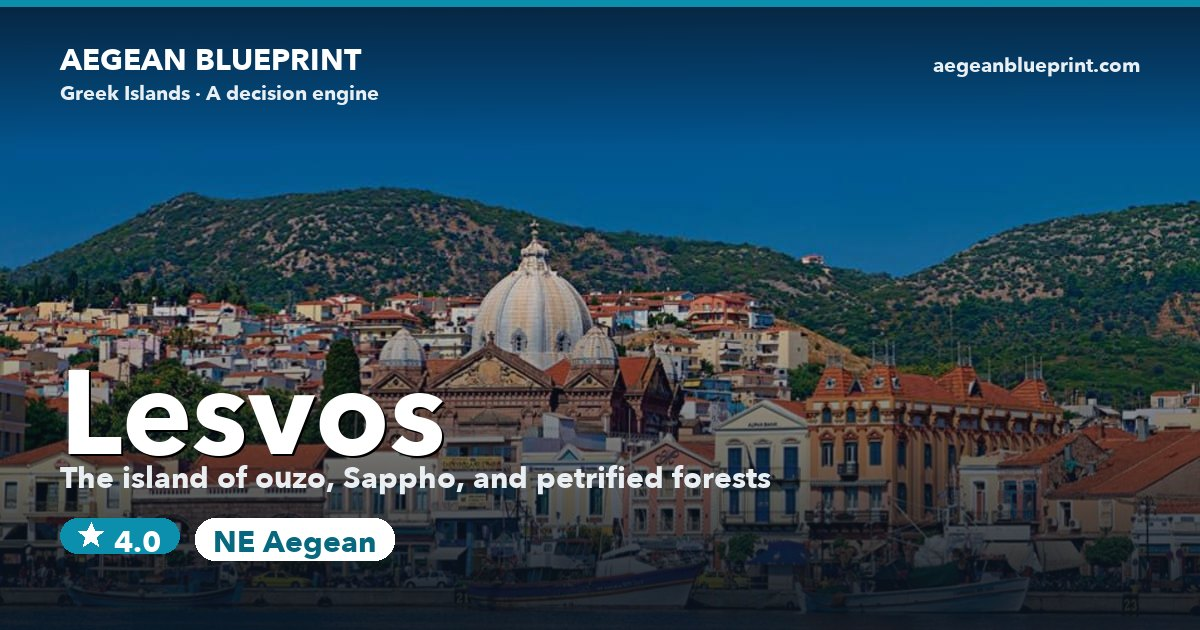
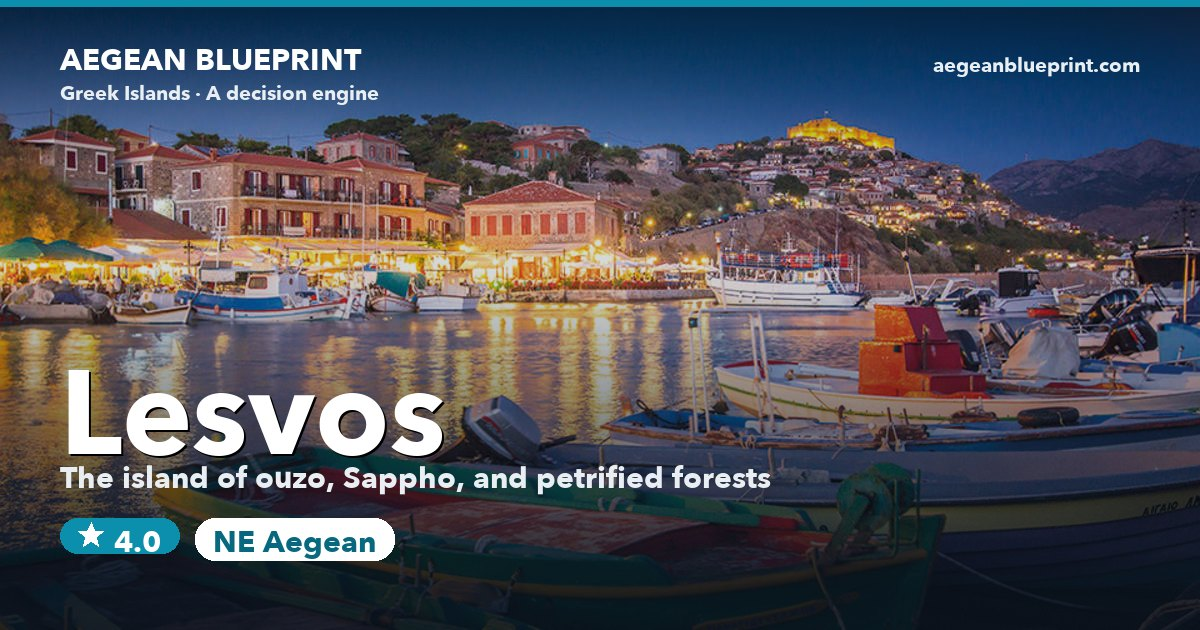
Cloudinary hero photos for 8 NE-Aegean islands + Compare/Match Me photos

diff --git a/script.js b/script.js
@@ -1559,10 +1559,13 @@ function buildIslandPage(data, key) {
 
   // Characteristic hero photo: first available itinerary-stop photo, else first beach photo.
   // Mirrors find_hero_image() in prerender.py so the SPA matches the static SEO page.
-  let _hp = null, _hc = null, _hn = '';
-  for (const _d of itin.days) {
-    for (const _s of (_d.stops || [])) { if (_s.photo) { _hp = _s.photo; _hc = _s.photo_credit; _hn = pickLang(_s, 'name'); break; } }
-    if (_hp) break;
+  // A top-level `hero_photo` on the island JSON overrides the auto-pick.
+  let _hp = data.hero_photo || null, _hc = null, _hn = '';
+  if (!_hp) {
+    for (const _d of itin.days) {
+      for (const _s of (_d.stops || [])) { if (_s.photo) { _hp = _s.photo; _hc = _s.photo_credit; _hn = pickLang(_s, 'name'); break; } }
+      if (_hp) break;
+    }
   }
   if (!_hp && Array.isArray(data.beaches)) {
     for (const _b of data.beaches) { if (_b.photo) { _hp = _b.photo; _hc = _b.photo_credit; _hn = pickLang(_b, 'name'); break; } }
@@ -3246,16 +3249,22 @@ function renderCompareCards(iA, iB) {
     const airportRow = island.has_airport ? `<div class="cmp-info-row"><span class="cmp-info-label">✈ ${t('tooltip.hasairport')}</span><span class="cmp-info-val">${t('common.yes')}</span></div>` : '';
     const daysRow = island.days ? `<div class="cmp-info-row"><span class="cmp-info-label">⏱ ${t('tooltip.suggesteddays')}</span><span class="cmp-info-val">${island.days} ${t('common.days')}</span></div>` : '';
 
+    const nm = islandName(island.key);
+    const hero = HERO_PHOTOS[island.key] || {};
+    const media = `<div class="cmp-media${hero.url ? '' : ' cmp-nophoto'}" data-initial="${nm.charAt(0)}">${hero.url ? `<img class="cmp-photo" src="${thumbUrl(hero.url)}" alt="${nm}" loading="lazy" onerror="this.closest('.cmp-media').classList.add('cmp-nophoto')">` : ''}</div>`;
     return `<div class="compare-card">
-      <div class="compare-card-head">
-        <h2>${islandName(island.key)}</h2>
-        <div class="compare-total" style="color:${scoreToColor(island.total)}">${fmt(island.total)}<span>/5</span></div>
-      </div>
-      <div class="compare-meta">${groupName(island.island_group)} · ${fmtNum(island.area)} km² · ${t('compare.pop')}. ${fmtNum(island.pop)}</div>
-      <div class="cmp-info-panel">
-        <div class="cmp-info-row"><span class="cmp-info-label">🚗 ${t('dim.car')}</span><span class="cmp-info-val"><strong>${carLabel}</strong></span></div>
-        ${airportRow}
-        ${daysRow}
+      ${media}
+      <div class="cmp-body">
+        <div class="compare-card-head">
+          <h2>${nm}</h2>
+          <div class="compare-total" style="color:${scoreToColor(island.total)}">${fmt(island.total)}<span>/5</span></div>
+        </div>
+        <div class="compare-meta">${groupName(island.island_group)} · ${fmtNum(island.area)} km² · ${t('compare.pop')}. ${fmtNum(island.pop)}</div>
+        <div class="cmp-info-panel">
+          <div class="cmp-info-row"><span class="cmp-info-label">🚗 ${t('dim.car')}</span><span class="cmp-info-val"><strong>${carLabel}</strong></span></div>
+          ${airportRow}
+          ${daysRow}
+        </div>
       </div>
     </div>`;
   };
@@ -5183,7 +5192,12 @@ function computeQuizResults() {
     if (!reasons.length) reasons.push(`${t('quiz.why.overall')} ${fmt(island.total)}`);
     return reasons.slice(0, 2).join(' · ');
   };
-  results.innerHTML = `<div class="quiz-results-header"><div class="quiz-results-title">${t('match.results.title')}</div><div class="quiz-results-sub">${t('match.results.sub')}</div></div>${scored.map((island, idx) => `<div class="result-island-card" data-key="${island.key}"><div class="result-rank">${idx + 1}</div><div class="result-info"><div class="result-name">${islandName(island.key)}</div><div class="result-why">${whyText(island)}</div></div><div class="result-score" style="color:${scoreToColor(island.total)}">${fmt(island.total)}</div></div>`).join('')}<div class="quiz-retake-row"><button class="quiz-retake-btn">${t('match.retake')}</button></div>`;
+  results.innerHTML = `<div class="quiz-results-header"><div class="quiz-results-title">${t('match.results.title')}</div><div class="quiz-results-sub">${t('match.results.sub')}</div></div>${scored.map((island, idx) => {
+    const nm = islandName(island.key);
+    const hero = HERO_PHOTOS[island.key] || {};
+    const thumb = `<div class="result-thumb${hero.url ? '' : ' result-nophoto'}" data-initial="${nm.charAt(0)}">${hero.url ? `<img src="${thumbUrl(hero.url)}" alt="${nm}" loading="lazy" onerror="this.closest('.result-thumb').classList.add('result-nophoto')">` : ''}<span class="result-rank">${idx + 1}</span></div>`;
+    return `<div class="result-island-card" data-key="${island.key}">${thumb}<div class="result-info"><div class="result-name">${nm}</div><div class="result-why">${whyText(island)}</div></div><div class="result-score" style="color:${scoreToColor(island.total)}">${fmt(island.total)}</div></div>`;
+  }).join('')}<div class="quiz-retake-row"><button class="quiz-retake-btn">${t('match.retake')}</button></div>`;
   results.querySelectorAll('.result-island-card').forEach(card => { card.addEventListener('click', () => navigateTo('island', card.dataset.key)); });
   results.querySelector('.quiz-retake-btn').addEventListener('click', () => { quizAnswers = {}; quizStep = 0; renderQuizStep(); });
 }

diff --git a/el/island/lemnos/index.html b/el/island/lemnos/index.html
@@ -323,7 +323,7 @@
     <p class="seo-rating">Συνολική βαθμολογία: <strong>3.7/5</strong> · 476 km² · 16900 κάτοικοι</p>
     <p class="seo-lastupdated"><time datetime="2026-07-01">Τελευταία ενημέρωση: <strong>1 Ιουλίου 2026</strong></time></p>
   </div>
-  <figure class="seo-hero"><img src="https://upload.wikimedia.org/wikipedia/commons/thumb/e/ea/Wharf_in_Myrina%2C_Lemnos%2C_Greece.jpg/1920px-Wharf_in_Myrina%2C_Lemnos%2C_Greece.jpg" alt="Λήμνος — Myrina (Capital)" loading="lazy" width="800" height="500" style="width:100%;height:auto;border-radius:8px"></figure>
+  <figure class="seo-hero"><img src="https://res.cloudinary.com/dothbs5hs/image/upload/v1783272505/%CE%BB%CE%B7%CE%BC%CE%BD%CE%BF%CF%82_xht7g6.jpg" alt="Λήμνος, ελληνικό νησί" loading="lazy" width="800" height="500" style="width:100%;height:auto;border-radius:8px"></figure>
   <section class="seo-intro">
     <p>Η Λήμνος είναι το 8ο μεγαλύτερο νησί της Ελλάδας και το πιο ήσυχο 8ο μεγαλύτερο με διαφορά — 477 τ.χλμ. ηφαιστειακών πεδίων, αμμοθίνων, αλυκών και πάνω από 30 αμμώδεις παραλίες, με περίπου 17.000 μόνιμους κατοίκους. Στην ελληνική μυθολογία εδώ έριξε ο Δίας τον Ήφαιστο όταν εκδιώχθηκε από τον Όλυμπο, και ο θεός της μεταλλουργίας λέγεται ότι έστησε εδώ το αμόνι του. Η Πολιόχνη στην ανατολική ακτή είναι ένας από τους αρχαιότερους οικισμούς της Ευρώπης (4000 π.Χ., παλαιότερος από την Τροία) και το Βουλευτήριό της μπορεί να είναι το αρχαιότερο γνωστό κτίριο συνέλευσης οπουδήποτε. Η πρωτεύουσα Μύρινα βρίσκεται κάτω από ένα τεράστιο βυζαντινό κάστρο όπου περιφέρονται ελεύθερα ελάφια. Οι βορειοανατολικές παραλίες στον Κέρο είναι παγκόσμια πρωτεύουσα windsurfing. Τρεις μέρες σου επιτρέπουν να δεις τα κύρια χωρίς βιασύνη· αεροδρόμιο ανατολικά της Μύρινας κάνει το νησί ασυνήθιστα προσβάσιμο για κάπου τόσο μακριά βόρεια.</p>
   </section>

diff --git a/style.css b/style.css
@@ -802,10 +802,21 @@ html.dark .compare-faq details p { color: #ddd; }
   background: var(--white);
   border: 1px solid var(--border);
   border-radius: var(--radius-lg);
-  padding: 20px; position: relative;
+  overflow: hidden; position: relative;
   box-shadow: var(--shadow-sm);
 }
 .compare-card.compare-winner { border: 2px solid var(--aegean-mid); }
+/* Photo banner at the top of each compare card */
+.cmp-media { position: relative; aspect-ratio: 16 / 9; background: var(--aegean-pale); overflow: hidden; }
+.cmp-photo { width: 100%; height: 100%; object-fit: cover; display: block; }
+.cmp-media.cmp-nophoto .cmp-photo { display: none; }
+.cmp-media.cmp-nophoto::after {
+  content: attr(data-initial); position: absolute; inset: 0;
+  display: flex; align-items: center; justify-content: center;
+  font-family: var(--font-display); font-size: 40px; font-weight: 700;
+  color: var(--aegean); opacity: 0.5;
+}
+.cmp-body { padding: 18px 20px 20px; }
 /* Card header: name on the left, overall score on the right, baseline-aligned
    so the score sits on the same visual line as the name rather than below it. */
 .compare-card-head {
@@ -1166,10 +1177,27 @@ html.dark .planner-disclaimer { background: rgba(11, 143, 172, 0.10); }
   box-shadow: var(--shadow);
   transform: translateY(-2px);
 }
+/* Photo thumbnail with the rank badge overlaid (Match Me results) */
+.result-thumb {
+  position: relative; flex-shrink: 0;
+  width: 76px; height: 76px; border-radius: 12px; overflow: hidden;
+  background: var(--aegean-pale);
+}
+.result-thumb img { width: 100%; height: 100%; object-fit: cover; display: block; }
+.result-thumb.result-nophoto img { display: none; }
+.result-thumb.result-nophoto::after {
+  content: attr(data-initial); position: absolute; inset: 0;
+  display: flex; align-items: center; justify-content: center;
+  font-family: var(--font-display); font-size: 30px; font-weight: 700;
+  color: var(--aegean); opacity: 0.55;
+}
 .result-rank {
-  font-family: var(--serif);
-  font-size: var(--text-section); font-weight: 600;
-  color: var(--aegean); width: 32px; flex-shrink: 0;
+  position: absolute; top: 5px; left: 5px;
+  width: 22px; height: 22px; border-radius: 50%;
+  background: var(--aegean-dark); color: #fff;
+  display: flex; align-items: center; justify-content: center;
+  font-weight: 800; font-size: var(--text-tiny);
+  box-shadow: 0 1px 4px rgba(0,0,0,0.35);
 }
 .result-info { flex: 1; }
 .result-name {

diff --git a/el/island/ammouliani/index.html b/el/island/ammouliani/index.html
@@ -323,7 +323,7 @@
     <p class="seo-rating">Συνολική βαθμολογία: <strong>3.5/5</strong> · 4 km² · 547 κάτοικοι</p>
     <p class="seo-lastupdated"><time datetime="2026-07-01">Τελευταία ενημέρωση: <strong>1 Ιουλίου 2026</strong></time></p>
   </div>
-  <figure class="seo-hero"><img src="https://upload.wikimedia.org/wikipedia/commons/thumb/8/85/Ammouliani_Island.jpg/1920px-Ammouliani_Island.jpg" alt="Αμμουλιανή — Ammouliani Port" loading="lazy" width="800" height="500" style="width:100%;height:auto;border-radius:8px"></figure>
+  <figure class="seo-hero"><img src="https://res.cloudinary.com/dothbs5hs/image/upload/v1783272506/ammouliani_jh9w8s.jpg" alt="Αμμουλιανή, ελληνικό νησί" loading="lazy" width="800" height="500" style="width:100%;height:auto;border-radius:8px"></figure>
   <section class="seo-intro">
     <p>Η Αμμουλιανή είναι ένα νησί 4,5 τ.χλμ. στον κόλπο του Άθω ανάμεσα στις χερσονήσους Σιθωνίας και Άθω της Χαλκιδικής — το μοναδικό κατοικημένο νησί της Κεντρικής Μακεδονίας. Μέχρι το 1925 ανήκε στη Μονή Βατοπεδίου του Αγίου Όρους και καλλιεργούνταν από μοναχούς. Μετά τη Μικρασιατική καταστροφή, το νησί παραχωρήθηκε σε πρόσφυγες από τη Θάλασσα του Μαρμαρά, που έφεραν μαζί τους την αλιευτική γνώση και την κουζίνα τους. Οι 600 μόνιμοι κάτοικοι ζουν σε ένα χωριό γύρω από το λιμάνι. Τα νερά είναι διαυγή, η άμμος χρυσή, και το Άγιο Όρος υψώνεται ακριβώς απέναντι από το κανάλι — η θέα στο ηλιοβασίλεμα δεν συγκρίνεται με τίποτα στην Ελλάδα. Σε συνδυασμό με τα νησάκια Δρένια ακριβώς απέναντι από τη νοτιοανατολική ακτή, δύο μέρες εδώ αρκούν.</p>
   </section>

diff --git a/el/island/agios-efstratios/index.html b/el/island/agios-efstratios/index.html
@@ -323,7 +323,7 @@
     <p class="seo-rating">Συνολική βαθμολογία: <strong>3.3/5</strong> · 43 km² · 270 κάτοικοι</p>
     <p class="seo-lastupdated"><time datetime="2026-07-01">Τελευταία ενημέρωση: <strong>1 Ιουλίου 2026</strong></time></p>
   </div>
-  <figure class="seo-hero"><img src="https://upload.wikimedia.org/wikipedia/commons/thumb/d/da/Agios_Efstratios_banner.jpg/1920px-Agios_Efstratios_banner.jpg" alt="Άγιος Ευστράτιος — Harbour &amp; Village" loading="lazy" width="800" height="500" style="width:100%;height:auto;border-radius:8px"></figure>
+  <figure class="seo-hero"><img src="https://res.cloudinary.com/dothbs5hs/image/upload/v1783272506/agios_efstratios_b2y5au.jpg" alt="Άγιος Ευστράτιος, ελληνικό νησί" loading="lazy" width="800" height="500" style="width:100%;height:auto;border-radius:8px"></figure>
   <section class="seo-intro">
     <p>Ο Άγιος Ευστράτιος είναι το πιο απομονωμένο κατοικημένο νησί του Αιγαίου — 270 άνθρωποι, χωρίς αυτοκίνητα, χωρίς ασφαλτόδρομους, προστατευμένο από το δίκτυο Natura 2000. Ηφαιστειακό νησί με παραλίες μαύρης άμμου, ένα από τα μεγαλύτερα δάση βελανιδιάς στο Αιγαίο, και θαλάσσιες σπηλιές όπου αναπαράγονται μεσογειακές φώκιες. Διάσημο στην ελληνική ιστορία ως τόπος εξορίας — ο συνθέτης Μίκης Θεοδωράκης και ο ποιητής Γιάννης Ρίτσος κρατήθηκαν εδώ τη δεκαετία του 1970. Το Μουσείο της Δημοκρατίας στο παλιό σχολείο διηγείται αυτή την ιστορία. Το νησί στοχεύει να γίνει το πρώτο ελληνικό νησί μηδενικών εκπομπών. Αν έχεις πάει στις Κυκλάδες πέντε φορές και θες κάτι εντελώς διαφορετικό, αυτό είναι.</p>
   </section>

diff --git a/el/island/psara/index.html b/el/island/psara/index.html
@@ -323,7 +323,7 @@
     <p class="seo-rating">Συνολική βαθμολογία: <strong>3.0/5</strong> · 40 km² · 450 κάτοικοι</p>
     <p class="seo-lastupdated"><time datetime="2026-07-01">Τελευταία ενημέρωση: <strong>1 Ιουλίου 2026</strong></time></p>
   </div>
-  <figure class="seo-hero"><img src="https://upload.wikimedia.org/wikipedia/commons/8/80/Psara-Black-Ridge-01.jpg" alt="Ψαρά — Harbour Arrival" loading="lazy" width="800" height="500" style="width:100%;height:auto;border-radius:8px"></figure>
+  <figure class="seo-hero"><img src="https://res.cloudinary.com/dothbs5hs/image/upload/v1783272505/psarra_soqnkb.jpg" alt="Ψαρά, ελληνικό νησί" loading="lazy" width="800" height="500" style="width:100%;height:auto;border-radius:8px"></figure>
   <section class="seo-intro">
     <p>Τα Ψαρά είναι ένα από τα πιο ιερά σημεία στη σύγχρονη ελληνική ιστορία. Κατά την Ελληνική Επανάσταση (1821-1829), το μικροσκοπικό νησί συνεισέφερε στόλο που ήταν καθοριστικός σε αρκετές μεγάλες ελληνικές νίκες. Τον Ιούνιο του 1824, ο οθωμανικός στόλος επιτέθηκε στα Ψαρά. Αντί να παραδοθούν, οι τοπικοί υπερασπιστές στην κορυφή άναψαν την πυριτιδαποθήκη — ολόκληρη η φρουρά και οι οικογένειές τους σκοτώθηκαν στην έκρηξη. Από τους 30.000 Ψαριανούς πριν την επανάσταση, επέζησαν μόνο λίγες εκατοντάδες. Ο ποιητής Διονύσιος Σολωμός έγραψε το διάσημο επίγραμμα: «Στων Ψαρών την ολόμαυρη ράχη, περπατώντας η Δόξα μονάχη». Σήμερα τα Ψαρά είναι ένα ήσυχο ψαρονήσι με 450 κατοίκους, μαύρες βότσαλες παραλίες, πολύ λίγους τουρίστες, και αισθητό βάρος ιστορίας.</p>
   </section>

diff --git a/el/island/samothrace/index.html b/el/island/samothrace/index.html
@@ -323,7 +323,7 @@
     <p class="seo-rating">Συνολική βαθμολογία: <strong>3.2/5</strong> · 178 km² · 2859 κάτοικοι</p>
     <p class="seo-lastupdated"><time datetime="2026-07-04">Τελευταία ενημέρωση: <strong>4 Ιουλίου 2026</strong></time></p>
   </div>
-  <figure class="seo-hero"><img src="https://upload.wikimedia.org/wikipedia/commons/b/b5/Kamariotissa%2C_Samotraki%2C_Greece.jpg" alt="Σαμοθράκη — Kamariotissa (port)" loading="lazy" width="800" height="500" style="width:100%;height:auto;border-radius:8px"></figure>
+  <figure class="seo-hero"><img src="https://res.cloudinary.com/dothbs5hs/image/upload/v1783272505/samothraki_lggl9b.jpg" alt="Σαμοθράκη, ελληνικό νησί" loading="lazy" width="800" height="500" style="width:100%;height:auto;border-radius:8px"></figure>
   <section class="seo-intro">
     <p>Η Σαμοθράκη είναι ένα νησί με καταρράκτες, άγριες ορεινές πισίνες και αρχαίο μυστήριο. Το Όρος Σάος υψώνεται κατευθείαν από τη θάλασσα στα 1.611 μέτρα, η ψηλότερη κορυφή κάθε αιγαιοπελαγίτικου νησιού. Το Ιερό των Μεγάλων Θεών ήταν η σημαντικότερη μυστική θρησκευτική λατρεία της αρχαιότητας, στην οποία συμμετείχαν όλοι από τον Ηρόδοτο μέχρι τον Φίλιππο Β&#x27; της Μακεδονίας. Η Νίκη της Σαμοθράκης (τώρα στο Λούβρο) βρέθηκε εδώ. Σήμερα το νησί παραμένει πεισματικά μη τουριστικό — χωρίς αεροδρόμιο, ισχυροί άνεμοι, βουνοπλαγιές με κατσίκες.</p>
   </section>

diff --git a/el/island/thasos/index.html b/el/island/thasos/index.html
@@ -323,7 +323,7 @@
     <p class="seo-rating">Συνολική βαθμολογία: <strong>3.7/5</strong> · 379 km² · 13700 κάτοικοι</p>
     <p class="seo-lastupdated"><time datetime="2026-07-01">Τελευταία ενημέρωση: <strong>1 Ιουλίου 2026</strong></time></p>
   </div>
-  <figure class="seo-hero"><img src="https://upload.wikimedia.org/wikipedia/commons/thumb/c/cc/Ancient_Theater_%28Thasos%29.jpg/1920px-Ancient_Theater_%28Thasos%29.jpg" alt="Θάσος — Ancient Theatre of Thasos" loading="lazy" width="800" height="500" style="width:100%;height:auto;border-radius:8px"></figure>
+  <figure class="seo-hero"><img src="https://res.cloudinary.com/dothbs5hs/image/upload/v1783272506/thassos_mlytko.jpg" alt="Θάσος, ελληνικό νησί" loading="lazy" width="800" height="500" style="width:100%;height:auto;border-radius:8px"></figure>
   <section class="seo-intro">
     <p>Η Θάσος είναι το βορειότερο ελληνικό νησί — πιο κοντά στη Βουλγαρία παρά στην Αθήνα — και δεν μοιάζει καθόλου με τις Κυκλάδες. Πυκνά πευκοδάση και πλατανόδασα καλύπτουν τα βουνά, ποτάμια τροφοδοτούν μαρμαρικά λατομεία, και η ανατολική ακτή έχει μακριές λευκές αμμώδεις παραλίες. Στην αρχαιότητα, η Θάσος ήταν διάσημα πλούσια από τον χρυσό και το μάρμαρό της· σήμερα το μάρμαρο ακόμα εξάγεται, και η αρχαία Αγορά στην κύρια πόλη είναι από τις πιο πλήρεις της Ελλάδας.</p>
   </section>

diff --git a/el/island/chios/index.html b/el/island/chios/index.html
@@ -323,7 +323,7 @@
     <p class="seo-rating">Συνολική βαθμολογία: <strong>3.6/5</strong> · 842 km² · 51000 κάτοικοι</p>
     <p class="seo-lastupdated"><time datetime="2026-07-01">Τελευταία ενημέρωση: <strong>1 Ιουλίου 2026</strong></time></p>
   </div>
-  <figure class="seo-hero"><img src="https://upload.wikimedia.org/wikipedia/commons/thumb/e/e7/Chios_-_View_of_Chios_%284%29.jpg/1920px-Chios_-_View_of_Chios_%284%29.jpg" alt="Χίος — Chios Town" loading="lazy" width="800" height="500" style="width:100%;height:auto;border-radius:8px"></figure>
+  <figure class="seo-hero"><img src="https://res.cloudinary.com/dothbs5hs/image/upload/v1783272505/%CF%87%CE%B9%CE%BF%CF%82_cnscsn.jpg" alt="Χίος, ελληνικό νησί" loading="lazy" width="800" height="500" style="width:100%;height:auto;border-radius:8px"></figure>
   <section class="seo-intro">
     <p>Η Χίος παράγει κάτι που δεν υπάρχει πουθενά αλλού στη Γη — ρητίνη μαστίχας από το δέντρο της σχίνου, που χρησιμοποιείται 3000 χρόνια ως τσίχλα, φάρμακο και βερνίκι. Τα μεσαιωνικά μαστιχοχώρια του νότου είναι από τους πιο αρχιτεκτονικά εξαιρετικούς οικισμούς της Ελλάδας — χτισμένοι από τους Γενουάτες τον 14ο αιώνα με μοναδικό γεωμετρικό αμυντικό σχεδιασμό. Το νησί είναι πραγματικά μακριά από τον πολυσύχναστο τουρισμό παρά το μέγεθός του.</p>
   </section>

diff --git a/island/lemnos/index.html b/island/lemnos/index.html
@@ -323,7 +323,7 @@
     <p class="seo-rating">Overall rating: <strong>3.7/5</strong> · 476 km² · 16900 residents</p>
     <p class="seo-lastupdated"><time datetime="2026-07-01">Last updated: <strong>July 1, 2026</strong></time></p>
   </div>
-  <figure class="seo-hero"><img src="https://upload.wikimedia.org/wikipedia/commons/thumb/e/ea/Wharf_in_Myrina%2C_Lemnos%2C_Greece.jpg/1920px-Wharf_in_Myrina%2C_Lemnos%2C_Greece.jpg" alt="Lemnos — Myrina (Capital)" loading="lazy" width="800" height="500" style="width:100%;height:auto;border-radius:8px"></figure>
+  <figure class="seo-hero"><img src="https://res.cloudinary.com/dothbs5hs/image/upload/v1783272505/%CE%BB%CE%B7%CE%BC%CE%BD%CE%BF%CF%82_xht7g6.jpg" alt="Lemnos, Greek island" loading="lazy" width="800" height="500" style="width:100%;height:auto;border-radius:8px"></figure>
   <section class="seo-intro">
     <p>Lemnos is Greece&#x27;s 8th-largest island and its quietest 8th-largest by a long margin — 477 km² of volcanic plains, sand dunes, salt flats and more than 30 sandy beaches, with about 17,000 year-round residents. In Greek mythology this is where Zeus threw Hephaestus when he was cast out of Olympus, and the god of metalwork supposedly set up his forge here. Poliochni on the east coast is one of the oldest settlements in Europe (4000 BC, predating Troy) and its &#x27;Bouleuterion&#x27; may be the oldest known assembly building anywhere. The capital Myrina sits beneath an enormous Byzantine castle where deer roam free. The northeastern beaches at Keros are a windsurfing capital. Three days lets you see the highlights without rushing; an airport east of Myrina makes the island unusually accessible for somewhere this far north.</p>
   </section>

diff --git a/el/island/lesvos/index.html b/el/island/lesvos/index.html
@@ -323,7 +323,7 @@
     <p class="seo-rating">Συνολική βαθμολογία: <strong>4.0/5</strong> · 1633 km² · 83000 κάτοικοι</p>
     <p class="seo-lastupdated"><time datetime="2026-07-01">Τελευταία ενημέρωση: <strong>1 Ιουλίου 2026</strong></time></p>
   </div>
-  <figure class="seo-hero"><img src="https://res.cloudinary.com/dothbs5hs/image/upload/w_800,q_auto,f_auto/v1776895439/mytilini_l2txir.jpg" alt="Λέσβος — Mytilene Town" loading="lazy" width="800" height="500" style="width:100%;height:auto;border-radius:8px"></figure>
+  <figure class="seo-hero"><img src="https://res.cloudinary.com/dothbs5hs/image/upload/v1783272505/%CE%BB%CE%B5%CF%83%CE%B2%CE%BF%CF%82_vsg6hx.jpg" alt="Λέσβος, ελληνικό νησί" loading="lazy" width="800" height="500" style="width:100%;height:auto;border-radius:8px"></figure>
   <section class="seo-intro">
     <p>Η Λέσβος (Μυτιλήνη) είναι το τρίτο μεγαλύτερο νησί της Ελλάδας — μια γη από αμέτρητους ελαιώνες, θερμές πηγές και μικρά ορεινά χωριά που αρνούνται να αλλάξουν. Έχει ρυθμό δικό της. Ουζερί, καστροπολιτείες, αρχαία πετρωμένα δάση, μακριές παραλίες που σχεδόν πάντα έχεις για σένα. Δεν είναι <a href="/el/island/santorini/">Σαντορίνη</a> και δεν θέλει να γίνει. Έρχεσαι εδώ για τη Λέσβο.</p>
   </section>

diff --git a/island/ammouliani/index.html b/island/ammouliani/index.html
@@ -323,7 +323,7 @@
     <p class="seo-rating">Overall rating: <strong>3.5/5</strong> · 4 km² · 547 residents</p>
     <p class="seo-lastupdated"><time datetime="2026-07-01">Last updated: <strong>July 1, 2026</strong></time></p>
   </div>
-  <figure class="seo-hero"><img src="https://upload.wikimedia.org/wikipedia/commons/thumb/8/85/Ammouliani_Island.jpg/1920px-Ammouliani_Island.jpg" alt="Ammouliani — Ammouliani Port" loading="lazy" width="800" height="500" style="width:100%;height:auto;border-radius:8px"></figure>
+  <figure class="seo-hero"><img src="https://res.cloudinary.com/dothbs5hs/image/upload/v1783272506/ammouliani_jh9w8s.jpg" alt="Ammouliani, Greek island" loading="lazy" width="800" height="500" style="width:100%;height:auto;border-radius:8px"></figure>
   <section class="seo-intro">
     <p>Ammouliani is a 4.5 km² island in the Athos bay between the Sithonia and Athos peninsulas of Halkidiki — the only inhabited island in Central Macedonia. Until 1925 it belonged to the Vatopedi monastery on Mount Athos and was farmed by monks. After the Asia Minor catastrophe, the island was granted to refugees from the Sea of Marmara, who brought their fishing knowledge and their cooking with them. The 600 year-round residents live in one village around the port. The water is clear, the sand is golden, and Mount Athos rises directly across the channel — the view at sunset is unlike anywhere else in Greece. Combined with the Drenia islets just off the southeast coast, two days here goes a long way.</p>
   </section>
